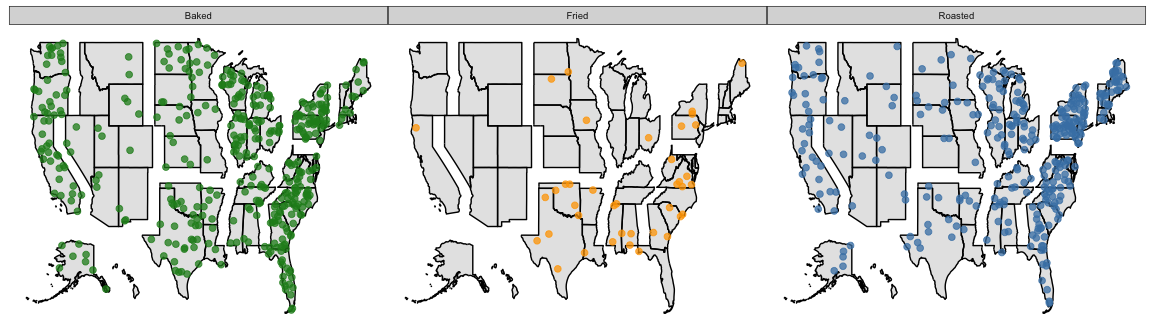
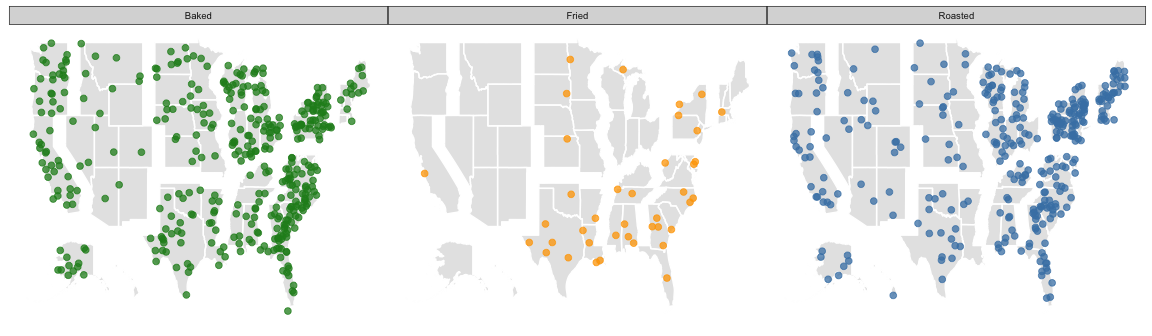
added stat_polygon_jitter

diff --git a/README.md b/README.md
@@ -1,6 +1,6 @@
 # ggmapr
 Heike Hofmann  
-`r format(Sys.time(), '%d %B, %Y')`  
+`r format(Sys.time(), '%B %d, %Y')`  
 
 
 
